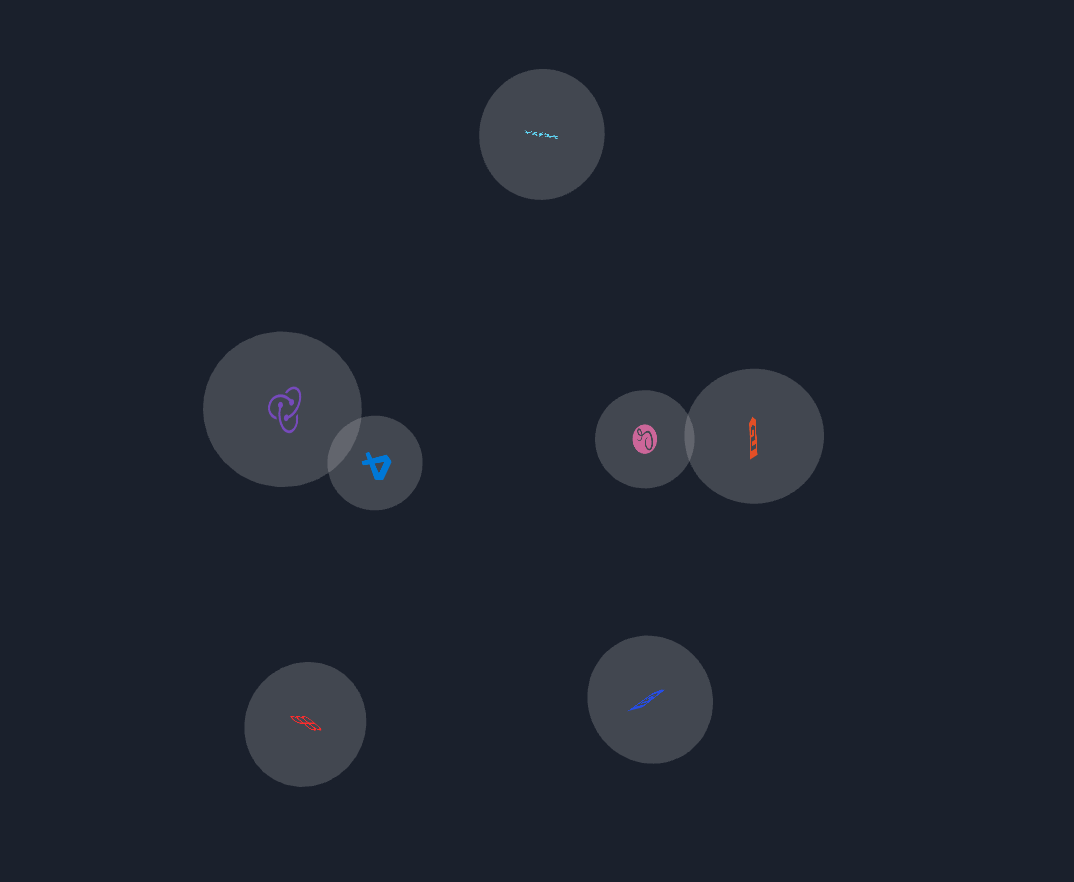
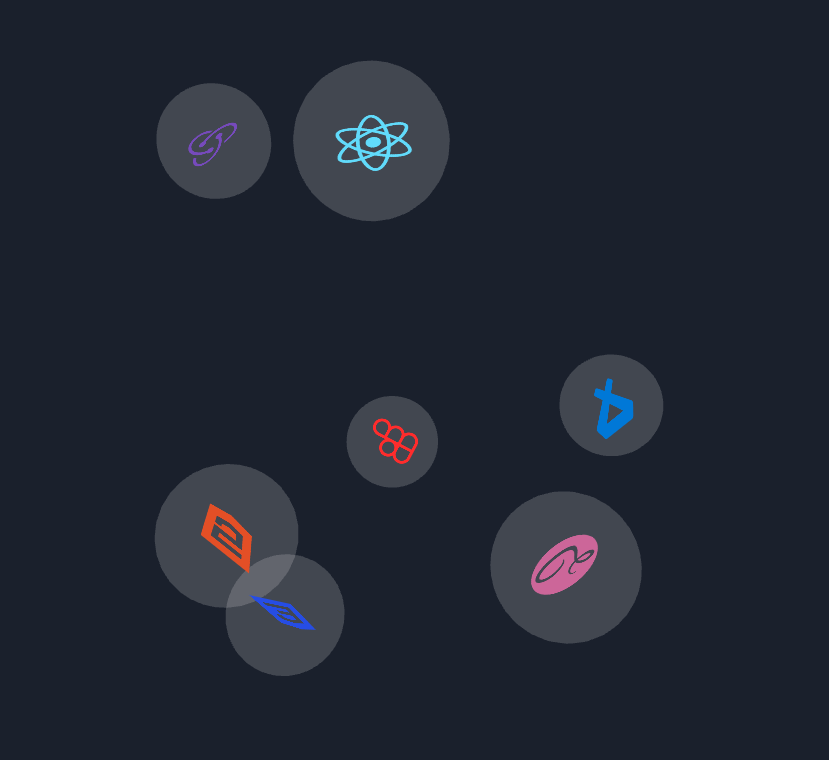
Fix/screenshot

diff --git a/src/sass/IconSphere.scss b/src/sass/IconSphere.scss
@@ -7,8 +7,8 @@
 };
 
 .icon {
-    width: 4.5rem;
-    height: 4.5rem;
+    width: 8rem;
+    height: 8rem;
     display: flex;
     align-items: center;
     justify-content: center;
